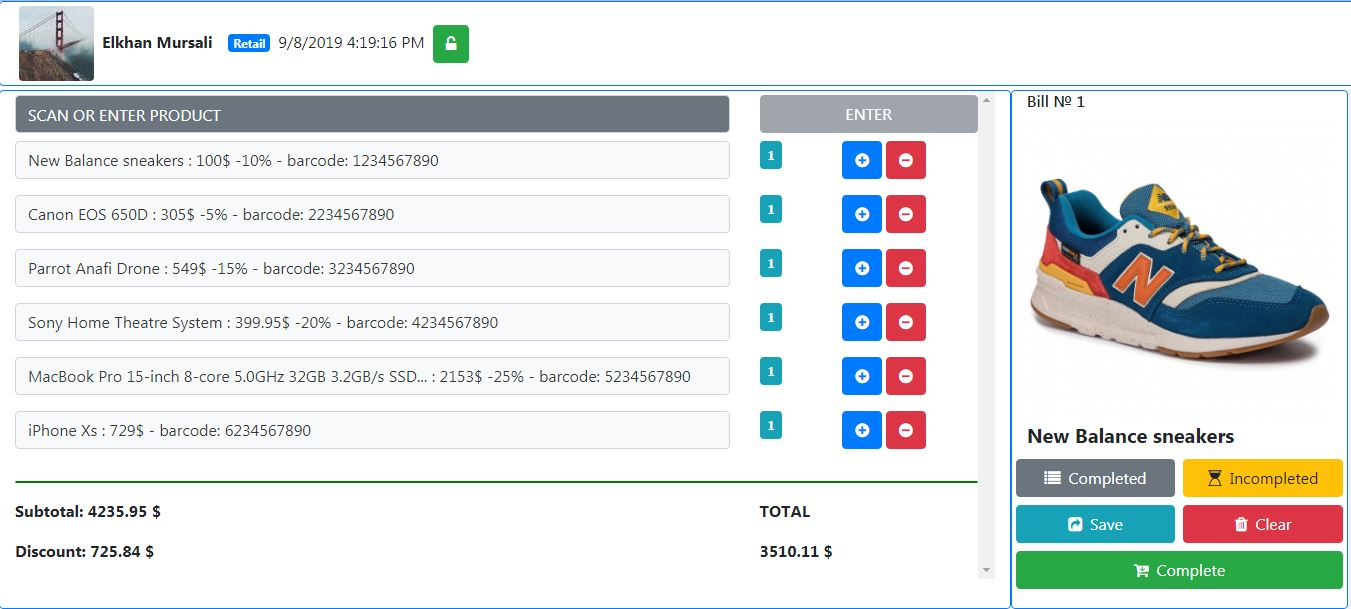
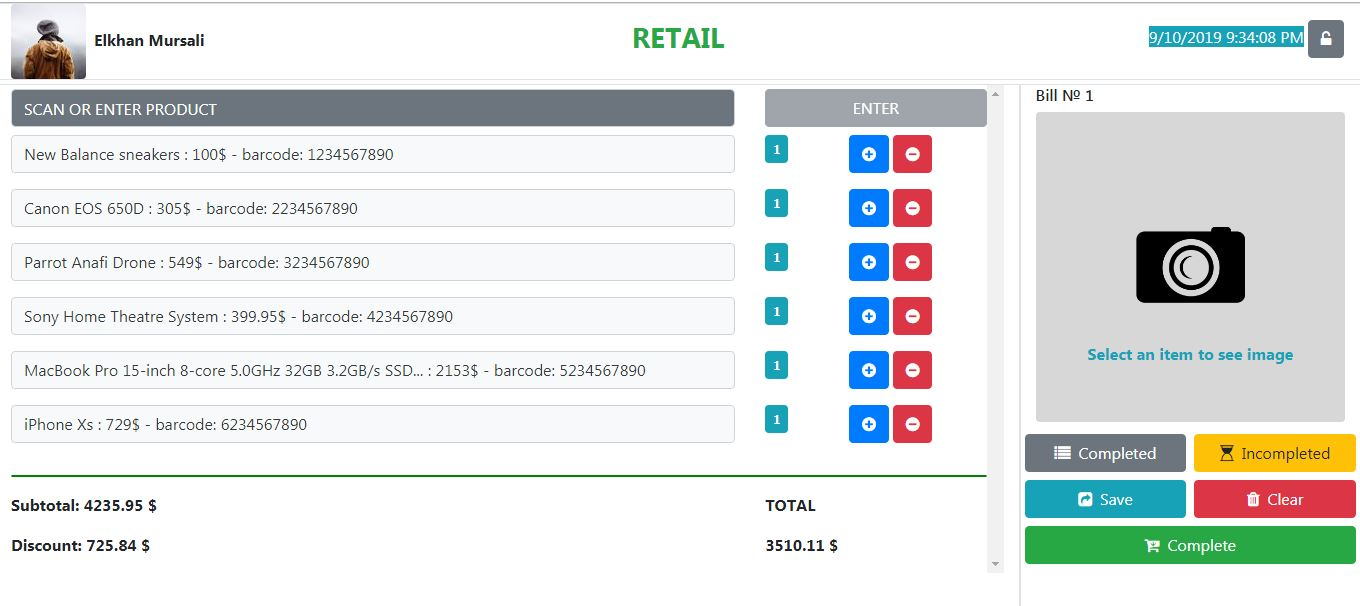
Developing sale-item, modifying model, updating services

diff --git a/Retail/src/app/main/sale-items/sale-items.component.ts b/Retail/src/app/main/sale-items/sale-items.component.ts
@@ -1,10 +1,11 @@
 import { Component, OnInit, OnDestroy } from "@angular/core";
+import { Subscription } from "rxjs";
 import { Sale, SaleDetail, Item } from "src/app/models/sale.model";
-import { SaleService } from "src/app/services/sale.service";
-import { CommunicationService } from "src/app/services/communication.service";
 import { Message } from "src/app/models/message.model";
 import { Status } from "src/app/models/status.model";
-import { Subscription } from "rxjs";
+import { ItemService } from "src/app/services/item.service";
+import { SaleService } from "src/app/services/sale.service";
+import { CommunicationService } from "src/app/services/communication.service";
 
 @Component({
   selector: "app-sale-items",
@@ -22,6 +23,7 @@ export class SaleItemsComponent implements OnInit, OnDestroy {
 
   constructor(
     private saleService: SaleService,
+    private itemService: ItemService,
     private communicationService: CommunicationService
   ) {
     this.subscription = this.communicationService
@@ -43,8 +45,7 @@ export class SaleItemsComponent implements OnInit, OnDestroy {
       });
     this.communicationService.getSale().subscribe(msg => {
       if (msg) {
-        // TODO: Check current sale. If it's empty add selected sale otherwise show dialog about confirmation.
-        if (this.sale.items.length > 0) {
+        if (this.sale.saleDetails.length > 0) {
           alert("Current sale is not empty.");
           return;
         } else {
@@ -70,14 +71,15 @@ export class SaleItemsComponent implements OnInit, OnDestroy {
 
     if (!value) return;
 
+    const itemCount = this.itemService.getItems().length;
     const newItem = new Item(
-      this.sale.items.length + 1,
+      itemCount + 1,
       value,
       this.getRandomIntInclusive(10, 100),
-      1234567890 + this.sale.items.length + 1,
+      1234567890 + itemCount + 1,
       `./assets/new_product${this.getRandomIntInclusive(1, 2)}.jpg`
     );
-    this.sale.items.push(newItem);
+    this.itemService.addItem(newItem);
     const newSaleDetail = new SaleDetail(newItem.id, newItem.price, 1, 0);
     this.sale.saleDetails.push(newSaleDetail);
 
@@ -88,7 +90,14 @@ export class SaleItemsComponent implements OnInit, OnDestroy {
     this.communicationService.sendItem(message);
   }
 
-  onAmountChanged(event: boolean) {
+  onAmountChanged(isRemoved: boolean, saleDetail: SaleDetail) {
+    if (isRemoved) {
+      const { saleDetails } = this.sale;
+      const index = saleDetails.indexOf(saleDetail);
+      saleDetails.splice(index, 1);
+      this.communicationService.clearItem();
+    }
+
     this.updateTotalAmounts();
   }
 
@@ -98,7 +107,7 @@ export class SaleItemsComponent implements OnInit, OnDestroy {
   }
 
   private saveSale(): void {
-    if (this.sale.items.length > 0) {
+    if (this.sale.saleDetails.length > 0) {
       this.sale = this.saleService.saveSale(this.sale);
       this.communicationService.clearItem();
       this.communicationService.sendSaleInfo(new Message(null, this.sale.id));
@@ -109,7 +118,7 @@ export class SaleItemsComponent implements OnInit, OnDestroy {
   }
 
   private completeSale(): void {
-    if (this.sale.items.length > 0) {
+    if (this.sale.saleDetails.length > 0) {
       this.sale = this.saleService.completeSale(this.sale);
       this.communicationService.clearItem();
       this.communicationService.sendSaleInfo(new Message(null, this.sale.id));
@@ -120,7 +129,7 @@ export class SaleItemsComponent implements OnInit, OnDestroy {
   }
 
   private clearSale(): void {
-    this.sale.items = [];
+    this.sale.saleDetails = [];
     this.communicationService.clearItem();
     this.updateTotalAmounts();
   }
@@ -129,17 +138,13 @@ export class SaleItemsComponent implements OnInit, OnDestroy {
     const reducer = (accumulator, currentValue) => accumulator + currentValue;
     const roundTo2 = value => Math.round(value * 100) / 100;
 
-    const totalAmount = this.sale.saleDetails
-      .map(s => s.totalAmount)
-      .reduce(reducer, 0);
-    this.subTotal = roundTo2(totalAmount);
-
-    const discountAmount = this.sale.saleDetails
-      .map(s => s.discountAmount)
-      .reduce(reducer, 0);
-    this.totalDiscount = roundTo2(discountAmount);
-
-    this.total = roundTo2(this.subTotal - this.totalDiscount);
+    this.subTotal = roundTo2(
+      this.sale.saleDetails.map(s => s.price).reduce(reducer, 0)
+    );
+    this.totalDiscount = roundTo2(
+      this.sale.saleDetails.map(s => s.discountAmount).reduce(reducer, 0)
+    );
+    this.total = roundTo2(this.sale.totalAmount);
   }
 
   private getRandomIntInclusive(min: number, max: number): number {

diff --git a/Retail/src/app/services/sale.service.ts b/Retail/src/app/services/sale.service.ts
@@ -16,36 +16,28 @@ export class SaleService {
     const sale: Sale = new Sale(1, new Date());
     const saleDetails: SaleDetail[] = [];
     sale.saleDetails = saleDetails;
-    const items: Item[] = [];
-    sale.items = items;
 
     const item1 = this.itemService.getItemById(1);
-    items.push(item1);
     const saleDetail1 = new SaleDetail(item1.id, item1.price, 1, 10);
     saleDetails.push(saleDetail1);
 
     let item2 = this.itemService.getItemById(2);
-    items.push(item2);
     const saleDetail2 = new SaleDetail(item2.id, item2.price, 1, 5);
     saleDetails.push(saleDetail2);
 
     let item3 = this.itemService.getItemById(3);
-    items.push(item3);
     const saleDetail3 = new SaleDetail(item3.id, item3.price, 1, 15);
     saleDetails.push(saleDetail3);
 
     let item4 = this.itemService.getItemById(4);
-    items.push(item4);
     const saleDetail4 = new SaleDetail(item4.id, item4.price, 1, 20);
     saleDetails.push(saleDetail4);
 
     let item5 = this.itemService.getItemById(5);
-    items.push(item5);
     const saleDetail5 = new SaleDetail(item5.id, item5.price, 1, 25);
     saleDetails.push(saleDetail5);
 
     let item6 = this.itemService.getItemById(6);
-    items.push(item6);
     const saleDetail6 = new SaleDetail(item6.id, item6.price, 1, 0);
     saleDetails.push(saleDetail6);
 
@@ -79,10 +71,7 @@ export class SaleService {
       this.sales.length + this.savedSales.length + 1,
       new Date()
     );
-    const items: Item[] = [];
-    newSale.items = items;
-    const saleDetails: SaleDetail[] = [];
-    newSale.saleDetails = saleDetails;
+    newSale.saleDetails = [];
     return newSale;
   }
 }

diff --git a/Retail/src/app/main/sale-items/sale-item/sale-item.component.ts b/Retail/src/app/main/sale-items/sale-item/sale-item.component.ts
@@ -20,6 +20,16 @@ export class SaleItemComponent implements OnInit {
     private itemService: ItemService
   ) {}
 
+  get displayName(): string {
+    return `${
+      this.item.name.length > 50
+        ? this.item.name.substring(0, 50).concat("...")
+        : this.item.name
+    } ${this.saleDetail.discount > 0 ? this.saleDetail.discount + "%" : ""} : ${
+      this.item.price
+    }$ - ${this.saleDetail.totalAmount}$`;
+  }
+
   ngOnInit() {
     this.item = this.itemService.getItemById(this.saleDetail.itemId);
   }
@@ -35,20 +45,17 @@ export class SaleItemComponent implements OnInit {
     let message = new Message(null, null, this.item.name, this.item.imageUrl);
     this.communicationService.sendItem(message);
 
-    this.amountChanged.emit(true);
+    this.amountChanged.emit(false);
   }
 
   onRemoveItem(): void {
-    const { saleDetails } = this.sale;
-
+    let isRemoved: boolean = false;
     if (this.saleDetail.quantity > 1) {
       this.saleDetail.quantity -= 1;
     } else {
-      const index = saleDetails.indexOf(this.saleDetail);
-      saleDetails.splice(index, 1);
-      this.communicationService.clearItem();
+      isRemoved = true;
     }
 
-    this.amountChanged.emit(true);
+    this.amountChanged.emit(isRemoved);
   }
 }

diff --git a/Retail/src/app/models/sale.model.ts b/Retail/src/app/models/sale.model.ts
@@ -1,18 +1,13 @@
 export class Sale {
   constructor(public id: number, public date: Date) {}
-  items: Array<Item>;
   saleDetails: Array<SaleDetail>;
 
   get totalAmount(): number {
     const reducer = (accumulator, currentValue) => accumulator + currentValue;
     const roundTo2 = value => Math.round(value * 100) / 100;
-    const discountAmount = this.saleDetails
-      .map(s => s.discountAmount)
-      .reduce(reducer, 0);
-    const totalAmount = this.saleDetails
-      .map(s => s.totalAmount)
-      .reduce(reducer, 0);
-    return roundTo2(totalAmount - discountAmount);
+    return roundTo2(
+      this.saleDetails.map(s => s.totalAmount).reduce(reducer, 0)
+    );
   }
 }
 
@@ -24,14 +19,6 @@ export class Item {
     public barcode: number,
     public imageUrl: string = ""
   ) {}
-
-  get displayName(): string {
-    return `${
-      this.name.length > 50
-        ? this.name.substring(0, 50).concat("...")
-        : this.name
-    } : ${this.price}$ - barcode: ${this.barcode}`;
-  }
 }
 
 export class SaleDetail {
@@ -47,6 +34,6 @@ export class SaleDetail {
   }
 
   get totalAmount(): number {
-    return this.price * this.quantity;
+    return this.price * this.quantity - this.discountAmount;
   }
 }

diff --git a/Retail/src/app/services/item.service.ts b/Retail/src/app/services/item.service.ts
@@ -11,8 +11,18 @@ export class ItemService {
     this.loadItems();
   }
 
+  getItems(): Array<Item> {
+    return this.items;
+  }
+
   getItemById(id: number): Item {
     return this.items.find(it => it.id == id);
+  }
+
+  addItem(item: Item): boolean {
+    this.items.push(item);
+    // In real app, working with storage would need to confirm data is added
+    return true;
   }
 
   private loadItems(): void {

diff --git a/Retail/src/app/main/sale-items/sale-item/sale-item.component.html b/Retail/src/app/main/sale-items/sale-item/sale-item.component.html
@@ -1,6 +1,6 @@
 <div class="row">
     <div class="col-md-9" style="cursor: pointer" (click)="onItemSelect()">
-        <p class="form-control bg-light text-dark">{{ item.displayName }}</p>
+        <p class="form-control bg-light text-dark">{{ displayName }}</p>
     </div>
     <div class="col-md-1">
         <span class="badge badge-info text-center p-2">{{ saleDetail.quantity }}</span>

diff --git a/Retail/src/app/main/sale-items/sale-items.component.html b/Retail/src/app/main/sale-items/sale-items.component.html
@@ -11,7 +11,7 @@
     </div>
   </div>
   <app-sale-item *ngFor="let saleDetail of sale.saleDetails" [saleDetail]="saleDetail"
-    (amountChanged)="onAmountChanged($event)">
+    (amountChanged)="onAmountChanged($event, saleDetail)">
   </app-sale-item>
   <hr style="border: 1px solid green; border-radius: 2px;" />
   <div class="row">
